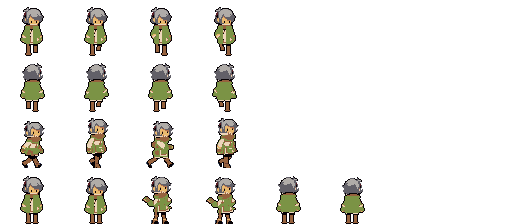
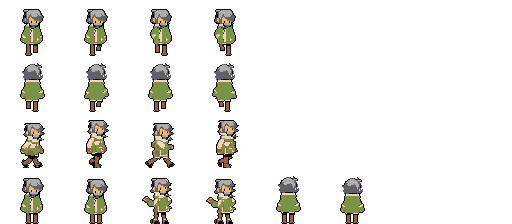
NPC: kepala beragam (rambut pendek/panjang/sanggul, jenggot), syal penutup mulut dibuang
Claude-Session: https://claude.ai/code/session_013SaXTJuwinpA9vu4txrWbT

diff --git a/tools/npc_from_mc.py b/tools/npc_from_mc.py
@@ -21,30 +21,30 @@ K = {'hitam': (6, 1, 5), 'marun': (90, 24, 33), 'merah': (177, 39, 26), 'zaitun'
 #   celana, kerah, sabuk, celemek = warna;  rok = 'pendek' | 'panjang' (gaun/jubah)
 #   topi = (warna, lebar pinggir);  helm = warna tudung yang menutup rambut
 NPC = {
-    'ac1':   dict(rambut=('birutua', 'hitam'), baju=('biru', 'birutua'), sepatu='birutua', rok='panjang', gaya='selempang', aksen='zaitun', kerah='krem'),
-    'ac2':   dict(rambut=('coklat', 'marun'), baju=('krem', 'abu'), sepatu='coklat', gaya='rompi', rompi='biru', celana='birutua', kerah='krem'),
-    'ar1':   dict(rambut=('krem', 'abu'), baju=('coklat', 'marun'), sepatu='marun', rok='panjang', gaya='kancing', kerah='krem', sabuk='marun'),
-    'bw1':   dict(rambut=('birutua', 'hitam'), baju=('merah', 'marun'), sepatu='coklat', gaya='selempang', aksen='krem', celana='coklat'),
-    'courier': dict(rambut=('coklat', 'marun'), baju=('zaitun', 'hijau'), sepatu='coklat', topi=('biru', 1), gaya='selempang', aksen='coklat', celana='coklat'),
+    'ac1':   dict(gaya_rambut='panjang', rambut=('birutua', 'hitam'), baju=('biru', 'birutua'), sepatu='birutua', rok='panjang', gaya='selempang', aksen='zaitun', kerah='krem'),
+    'ac2':   dict(gaya_rambut='pendek', rambut=('coklat', 'marun'), baju=('krem', 'abu'), sepatu='coklat', gaya='rompi', rompi='biru', celana='birutua', kerah='krem'),
+    'ar1':   dict(gaya_rambut='sanggul', rambut=('krem', 'abu'), baju=('coklat', 'marun'), sepatu='marun', rok='panjang', gaya='kancing', kerah='krem', sabuk='marun'),
+    'bw1':   dict(gaya_rambut='pendek', rambut=('birutua', 'hitam'), baju=('merah', 'marun'), sepatu='coklat', gaya='selempang', aksen='krem', celana='coklat'),
+    'courier': dict(gaya_rambut='pendek', rambut=('coklat', 'marun'), baju=('zaitun', 'hijau'), sepatu='coklat', topi=('biru', 1), gaya='selempang', aksen='coklat', celana='coklat'),
     'gk1':   dict(rambut=('abu', 'abutua'), baju=('abu', 'abutua'), sepatu='abutua', helm='abu', gaya='zirah', celana='abutua', sabuk='coklat'),
-    'gk3':   dict(rambut=('zaitun', 'hijau'), baju=('hijau', 'abutua'), sepatu='coklat', gaya='rompi', rompi='coklat', celana='coklat'),
+    'gk3':   dict(gaya_rambut='pendek', rambut=('zaitun', 'hijau'), baju=('hijau', 'abutua'), sepatu='coklat', gaya='rompi', rompi='coklat', celana='coklat'),
     'guard': dict(rambut=('abu', 'abutua'), baju=('abu', 'abutua'), sepatu='abutua', helm='abu', gaya='zirah', kerah='merah', celana='merah', sabuk='coklat'),
-    'in1':   dict(rambut=('coklat', 'marun'), baju=('krem', 'coklat'), sepatu='coklat', gaya='kancing', celana='coklat', sabuk='coklat'),
-    'merc1': dict(rambut=('oranye', 'merah'), baju=('abutua', 'hitam'), sepatu='hitam', gaya='rompi', rompi='coklat', celana='abutua', sabuk='coklat'),
-    'pm1':   dict(rambut=('coklat', 'marun'), baju=('biru', 'birutua'), sepatu='coklat', topi=('biru', 2), gaya='kancing', kerah='krem', celana='birutua', sabuk='coklat'),
-    'pm2':   dict(rambut=('abu', 'abutua'), baju=('krem', 'coklat'), sepatu='coklat', gaya='rompi', rompi='hijau', celana='coklat'),
-    'ps1':   dict(rambut=('kulit', 'oranye'), baju=('mawar', 'marun'), sepatu='marun', rok='pendek', kerah='krem', sabuk='krem'),
-    'ps2':   dict(rambut=('abu', 'abutua'), baju=('coklat', 'marun'), sepatu='coklat', topi=('kulit', 3), celemek='krem', celana='coklat'),
-    'smith': dict(rambut=('birutua', 'hitam'), baju=('krem', 'coklat'), sepatu='hitam', celemek='coklat', celana='abutua'),
-    'tp1':   dict(rambut=('hitam', 'hitam'), baju=('krem', 'abu'), sepatu='coklat', rok='panjang', gaya='selempang', aksen='merah'),
-    'farmer': dict(rambut=('coklat', 'marun'), baju=('krem', 'abu'), sepatu='coklat', topi=('kulit', 3), gaya='overall', aksen='biru', celana='biru'),
-    'gun':   dict(rambut=('coklat', 'marun'), baju=('coklat', 'marun'), sepatu='coklat', helm='kulit', gaya='rompi', rompi='abutua', celana='abutua', sabuk='hitam'),
-    'hermit': dict(rambut=('mawar', 'marun'), baju=('mawar', 'marun'), sepatu='marun', rok='panjang', helm='mawar', sabuk='krem'),
-    'lestari': dict(rambut=('oranye', 'merah'), baju=('birutua', 'hitam'), sepatu='hitam', rok='panjang', kerah='krem', gaya='kancing'),
+    'in1':   dict(gaya_rambut='pendek', rambut=('coklat', 'marun'), baju=('krem', 'coklat'), sepatu='coklat', gaya='kancing', celana='coklat', sabuk='coklat'),
+    'merc1': dict(gaya_rambut='pendek', rambut=('oranye', 'merah'), baju=('abutua', 'hitam'), sepatu='hitam', gaya='rompi', rompi='coklat', celana='abutua', sabuk='coklat'),
+    'pm1':   dict(gaya_rambut='pendek', rambut=('coklat', 'marun'), baju=('biru', 'birutua'), sepatu='coklat', topi=('biru', 2), gaya='kancing', kerah='krem', celana='birutua', sabuk='coklat'),
+    'pm2':   dict(jenggot=True, gaya_rambut='pendek', rambut=('abu', 'abutua'), baju=('krem', 'coklat'), sepatu='coklat', gaya='rompi', rompi='hijau', celana='coklat'),
+    'ps1':   dict(gaya_rambut='panjang', rambut=('kulit', 'oranye'), baju=('mawar', 'marun'), sepatu='marun', rok='pendek', kerah='krem', sabuk='krem'),
+    'ps2':   dict(jenggot=True, gaya_rambut='pendek', rambut=('abu', 'abutua'), baju=('coklat', 'marun'), sepatu='coklat', topi=('kulit', 3), celemek='krem', celana='coklat'),
+    'smith': dict(jenggot=True, gaya_rambut='pendek', rambut=('birutua', 'hitam'), baju=('krem', 'coklat'), sepatu='hitam', celemek='coklat', celana='abutua'),
+    'tp1':   dict(gaya_rambut='panjang', rambut=('hitam', 'hitam'), baju=('krem', 'abu'), sepatu='coklat', rok='panjang', gaya='selempang', aksen='merah'),
+    'farmer': dict(gaya_rambut='pendek', rambut=('coklat', 'marun'), baju=('krem', 'abu'), sepatu='coklat', topi=('kulit', 3), gaya='overall', aksen='biru', celana='biru'),
+    'gun':   dict(jenggot=True, rambut=('coklat', 'marun'), baju=('coklat', 'marun'), sepatu='coklat', helm='kulit', gaya='rompi', rompi='abutua', celana='abutua', sabuk='hitam'),
+    'hermit': dict(jenggot=True, rambut=('mawar', 'marun'), baju=('mawar', 'marun'), sepatu='marun', rok='panjang', helm='mawar', sabuk='krem'),
+    'lestari': dict(gaya_rambut='panjang', rambut=('oranye', 'merah'), baju=('birutua', 'hitam'), sepatu='hitam', rok='panjang', kerah='krem', gaya='kancing'),
     'nila':  dict(rambut=('coklat', 'marun'), baju=('oranye', 'coklat'), sepatu='coklat', rok='pendek', helm='coklat', sabuk='coklat'),
-    'ratih': dict(rambut=('abu', 'abutua'), baju=('krem', 'abu'), sepatu='abutua', rok='panjang', gaya='rompi', rompi='mawar'),
-    'mom':   dict(rambut=('coklat', 'marun'), baju=('biru', 'birutua'), sepatu='marun', rok='panjang', celemek='krem'),
-    'inn':   dict(rambut=('coklat', 'marun'), baju=('hijau', 'abutua'), sepatu='coklat', celemek='krem', celana='coklat', kerah='krem'),
+    'ratih': dict(gaya_rambut='sanggul', rambut=('abu', 'abutua'), baju=('krem', 'abu'), sepatu='abutua', rok='panjang', gaya='rompi', rompi='mawar'),
+    'mom':   dict(gaya_rambut='sanggul', rambut=('coklat', 'marun'), baju=('biru', 'birutua'), sepatu='marun', rok='panjang', celemek='krem'),
+    'inn':   dict(gaya_rambut='pendek', rambut=('coklat', 'marun'), baju=('hijau', 'abutua'), sepatu='coklat', celemek='krem', celana='coklat', kerah='krem'),
 }
 
 
@@ -87,6 +87,8 @@ def recolor(a, o, facing):
     b[eq(HAIR_L) & head] = (*hl, 255)
     b[(eq(HAIR_D) | eq(HAIR_S1) | eq(HAIR_S2)) & head] = (*hd, 255)
     paint_body(a, b, o, facing, top, neck, bot)
+    chin(a, b, facing, neck)
+    hair_style(a, b, o, facing, top, neck, (hl, hd))
     hm = o.get('helm')
     if hm:   # tudung/helm: rambut di atas mata jadi warna helm
         eyes = [y for y in range(top, neck) if ((rgb[y] == (6, 1, 5)).all(-1) & skin[y].any()).any()]
@@ -146,9 +148,9 @@ def paint_body(a, b, o, facing, top, neck, bot):
     T = al & rows & ~hand
     edge = T & nb4(~al)
     F = eq((6, 1, 5)); E = eq((84, 25, 32)); J = eq((163, 41, 28))
-    line = F & nb4(J | E) & ~edge
+    line = F & nb4(J | (E & (yy > neck + 4))) & ~edge
     b[T] = main
-    b[T & E] = shade
+    b[T & E & (yy > neck + 4)] = shade   # syal tokoh utama (baris leher) tidak dipertahankan
     b[T & line] = BLK
     b[edge] = BLK
     inner = T & ~edge
@@ -158,7 +160,7 @@ def paint_body(a, b, o, facing, top, neck, bot):
         b[m & inner] = col
     # kerah
     if o.get('kerah'):
-        band((yy >= neck - 1) & (yy <= neck), C(o['kerah']))
+        band((yy == neck + 2) & (abs(xx - cx) <= 4), C(o['kerah']))
     # badan berbagai potongan
     st = o.get('gaya', 'kemeja')
     if st == 'rompi':
@@ -187,8 +189,8 @@ def paint_body(a, b, o, facing, top, neck, bot):
             for y in range(neck + 3, hip + 4):
                 xr = np.nonzero(al[y])[0]
                 if len(xr):
-                    x0 = xr[0]   # menghadap kiri: depan = sisi kiri
-                    m[y, x0 + 1:x0 + 4] = True
+                    x1 = xr[-1]   # menghadap kanan: depan = sisi kanan
+                    m[y, x1 - 3:x1] = True
         b[m & ~hand] = C(ap)
         b[m & ~hand & nb4(~m) & (abs(xx - cx) <= 4 if face == 'd' else True) & (yy > neck + 3)] = np.where(face == 'd', 1, 1) * BLK
     # sabuk
@@ -219,6 +221,135 @@ def paint_body(a, b, o, facing, top, neck, bot):
     b[boots & (yy >= bot - 5)] = C(o['sepatu'])
     return hip
 
+
+def chin(a, b, facing, neck):
+    """Buang syal penutup mulut tokoh utama: dagu & leher terlihat, baju mulai di bawahnya."""
+    if facing == 'u':
+        return
+    BLK = (6, 1, 5, 255); L = (233, 185, 110, 255); Kc = (183, 115, 79, 255)
+    rgb = a[..., :3]; al = a[..., 3] > 0
+    skin = ((rgb == (233, 185, 110)).all(-1) | (rgb == (183, 115, 79)).all(-1)) & al
+    ref = None
+    for y in range(neck - 2, neck - 6, -1):
+        xs = np.nonzero(skin[y])[0]
+        if len(xs) >= 4:
+            ref = (xs[0], xs[-1]); break
+    if ref is None:
+        return
+    x0, x1 = ref
+    if facing == 's':      # tampak samping menghadap kanan: dagu di depan (kanan)
+        x0 = max(x0, x1 - 6)
+    for y in range(neck - 2, neck):
+        for x in range(x0, x1 + 1):
+            if not (b[y, x, :3] == (6, 1, 5)).all() or y == neck - 1:
+                b[y, x] = L
+    b[neck - 1, x1] = Kc
+    b[neck, x0 + 1:x1] = L
+    b[neck, x1 - 1] = Kc
+    b[neck, x0] = BLK; b[neck, x1] = BLK
+    nc = (x0 + x1) // 2 if facing == 'd' else x1 - 3
+    b[neck + 1, x0:x1 + 1] = BLK
+    b[neck + 1, nc - 1:nc + 2] = Kc
+    b[neck - 2:neck + 1, x1 + 1] = BLK
+    if facing == 'd':
+        b[neck - 2:neck + 1, x0 - 1] = BLK
+
+
+def hair_style(a, b, o, facing, top, neck, cols):
+    """Gaya rambut per NPC: pendek | panjang | sanggul | botak, + jenggot. Wajah tetap wajah tokoh utama."""
+    BLK = (6, 1, 5, 255)
+    hl, hd = (np.array((*c, 255), np.uint8) for c in cols)
+    rgb = a[..., :3]; al = a[..., 3] > 0
+    H_, W_ = al.shape
+    skin = ((rgb == (233, 185, 110)).all(-1) | (rgb == (183, 115, 79)).all(-1)) & al
+    fr = [y for y in range(top, neck) if skin[y].sum() >= 3]
+    if not fr:
+        return
+    eye = fr[0] + 4
+    hx = np.nonzero(al[top:neck].any(0))[0]
+    x0, x1 = hx[0], hx[-1]
+    cx = (x0 + x1) // 2
+    st = o.get('gaya_rambut', 'biasa')
+
+    def put(y, x, c):
+        if 0 <= y < H_ and 0 <= x < W_:
+            b[y, x] = c
+
+    def outline_new(m):
+        p = np.pad(m, 1)
+        ring = (p[:-2, 1:-1] | p[2:, 1:-1] | p[1:-1, :-2] | p[1:-1, 2:]) & ~m & (b[..., 3] == 0)
+        b[ring] = BLK
+
+    if st == 'pendek':   # potong ujung jambul & helai samping
+        b[top:top + 2] = 0
+        for y in range(top + 2, eye + 6):
+            xs = np.nonzero(b[y, :, 3] > 0)[0]
+            if len(xs):
+                if y < eye:
+                    b[y, xs[0]] = BLK; b[y, xs[-1]] = BLK
+        row = np.nonzero(b[top + 2, :, 3] > 0)[0]
+        if len(row):
+            b[top + 2, row[0]:row[-1] + 1] = BLK
+        side = ~skin & (b[..., 3] > 0) & (np.arange(H_)[:, None] >= eye) & (np.arange(H_)[:, None] < neck)
+        hair = side & ~((b[..., :3] == (6, 1, 5)).all(-1))
+        far = np.zeros_like(hair)
+        if facing != 's':
+            far[:, :x0 + 3] = True
+        hair &= far & ((np.array(b[..., :3]) == hl[:3]).all(-1) | (b[..., :3] == hd[:3]).all(-1))
+        b[hair] = 0
+        outline_new((b[..., 3] > 0) & ~((b[..., :3] == (6, 1, 5)).all(-1)))
+    elif st == 'panjang':   # rambut terurai sampai bahu/punggung
+        y1 = neck + 8
+        m = np.zeros((H_, W_), bool)
+        if facing == 'u':
+            m[eye:y1, x0 + 1:x1] = True
+        elif facing == 'd':
+            m[eye:y1, x0:x0 + 3] = True; m[eye:y1, x1 - 2:x1 + 1] = True
+        else:
+            m[eye:y1, x0:x0 + 5] = True
+        for y in range(eye, y1):
+            for x in np.nonzero(m[y])[0]:
+                b[y, x] = hd if (x in (x0 + 1, x1 - 1) or y > y1 - 3) else hl
+        outline_new(m)
+        b[y1, :][m[y1 - 1]] = BLK
+        for y in range(eye, y1):
+            xs = np.nonzero(m[y])[0]
+            if len(xs):
+                b[y, xs[0]] = BLK if facing != 'u' or y > neck else b[y, xs[0]]
+                b[y, xs[-1]] = BLK
+    elif st == 'sanggul':   # sanggul bulat di puncak / belakang kepala
+        cy, bx = (top + 1, cx) if facing != 's' else (top + 4, x0 + 1)
+        m = np.zeros((H_, W_), bool)
+        for y in range(cy - 3, cy + 2):
+            for x in range(bx - 3, bx + 4):
+                if ((x - bx) / 3.4) ** 2 + ((y - cy + 0.5) / 2.6) ** 2 <= 1:
+                    m[y, x] = True
+        m &= ~(b[..., 3] > 0) | (np.arange(H_)[:, None] < cy + 1)
+        b[m] = hl
+        b[m & (np.arange(H_)[:, None] >= cy)] = hd
+        outline_new(m)
+    elif st == 'botak':   # puncak botak, rambut tipis di samping
+        hair = (b[..., 3] > 0) & (np.arange(H_)[:, None] < eye - 1) & ~((b[..., :3] == (6, 1, 5)).all(-1))
+        b[hair] = (233, 185, 110, 255)
+        b[hair & (np.roll(~hair, 1, 0))] = (233, 185, 110, 255)
+        b[hair & ((np.arange(W_)[None, :] <= x0 + 2) | (np.arange(W_)[None, :] >= x1 - 2))] = hl
+        b[top:top + 2] = 0
+        row = np.nonzero(b[top + 2, :, 3] > 0)[0]
+        if len(row):
+            b[top + 2, row[0]:row[-1] + 1] = BLK
+    if o.get('jenggot') and facing != 'u':   # jenggot di dagu & pipi bawah
+        for y in range(neck - 2, neck + 2):
+            xs = np.nonzero((b[y, :, :3] == (233, 185, 110)).all(-1) | (b[y, :, :3] == (183, 115, 79)).all(-1))[0]
+            xs = xs[(xs >= x0) & (xs <= x1)]
+            if len(xs):
+                b[y, xs[0]:xs[-1] + 1] = hl if y < neck else hd
+                put(y, xs[0] - 1, BLK); put(y, xs[-1] + 1, BLK)
+        y = neck + 2
+        xs = np.nonzero(b[neck + 1, :, 3] > 0)[0]
+        mid = cx if facing == 'd' else x1 - 4
+        b[y, mid - 2:mid + 3] = hd
+        b[y + 1, mid - 1:mid + 2] = BLK
+        b[y, mid - 3] = BLK; b[y, mid + 3] = BLK
 
 def build(nid, spec, A):
     out = np.zeros((4 * FH, 8 * FW, 4), np.uint8)

diff --git a/AGENTS.md b/AGENTS.md
@@ -40,4 +40,4 @@ Proyek kini berjalan sepenuhnya di **Godot 4.7.2** (`godot/project.godot`, rende
 - **Jembatan (2026-11-27):** 8 jembatan kayu (Danau 1, Hutan 1, Sungai 4, Rawa 1, Salju 1) dari posisi & gambar versi web lama (`tools/bridges/`), ditempel ke gambar tanah oleh `seam_ground.py`, yang juga menulis `godot/core/bridges_data.gd`; `BenuaWorld` menghapus petak air (tabrakan) di bawahnya. Petak air TileMap tak terlihat (air = gambar tanah). Uji: `tests/_probe_bridges.gd`.
 - **Pose merapal (2026-11-27):** `hero_mc2.png` baris 25–27 = cast bawah/atas/samping (samping: badan atas frame jalan bertangan maju di atas kaki diam; bawah/atas: badan naik-turun 1 px). `Player.try_cast_skill` memutar `cast_*` 0,34 dtk (`cast_anim_t` menahan anim diam/jalan). Game Godot belum punya senjata busur, jadi pose busur belum dipakai. Uji: `tests/_probe_cast.gd`.
 - **Palet NPC (2026-11-27):** 35 sprite NPC yang dipakai game disamakan ke palet tokoh utama: 11 warna `CHARACTER_STYLE.md` + abu muda, abu tua, cokelat (keputusan pemilik, untuk uban/zirah/kulit gelap), lalu dibersihkan (`tools/sprite_clean.py`). `python3 tools/npc_palette.py [--preview]`; aslinya di `tools/npc_src/` (sumber tetap, jalankan ulang aman). Tinggi NPC masih beragam (25–47 px).
-- **NPC bertubuh tokoh utama (2026-11-27):** 24 NPC kini memakai lembar `npc_mc_<id>.png` (512×224, sel 64×56) yang dibangun dari tubuh & animasi `hero_mc2.png` dengan badan dicat ulang: potongan baju berbeda per NPC (kemeja, rompi, zirah, selempang, overall, kancing, celemek, rok/jubah, celana, kerah, sabuk, topi, tudung) (`python3 tools/npc_from_mc.py`, atur di dict `NPC`). Wajah masih wajah tokoh utama (keputusan pemilik, sementara). `npc.gd` punya cabang format 512×224.
+- **NPC bertubuh tokoh utama (2026-11-27):** 24 NPC kini memakai lembar `npc_mc_<id>.png` (512×224, sel 64×56) yang dibangun dari tubuh & animasi `hero_mc2.png` dengan badan dicat ulang: potongan baju berbeda per NPC (kemeja, rompi, zirah, selempang, overall, kancing, celemek, rok/jubah, celana, kerah, sabuk, topi, tudung) (`python3 tools/npc_from_mc.py`, atur di dict `NPC`). Wajah masih wajah tokoh utama (keputusan pemilik, sementara), tapi syal penutup mulut dibuang (dagu & leher terlihat) dan rambut punya gaya `gaya_rambut` = pendek | panjang | sanggul, plus `jenggot`. `npc.gd` punya cabang format 512×224.
